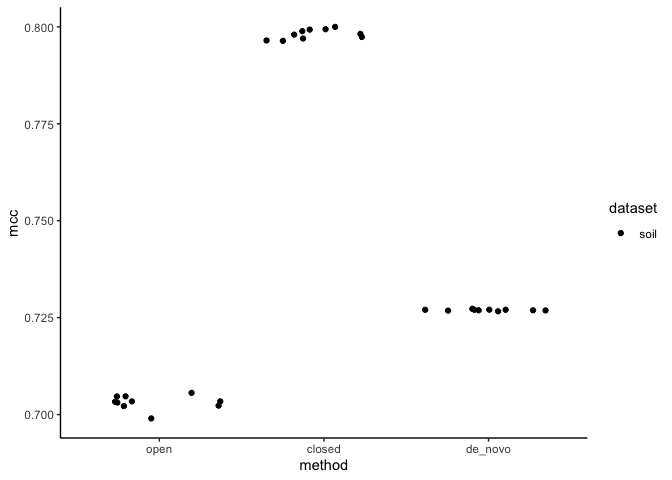
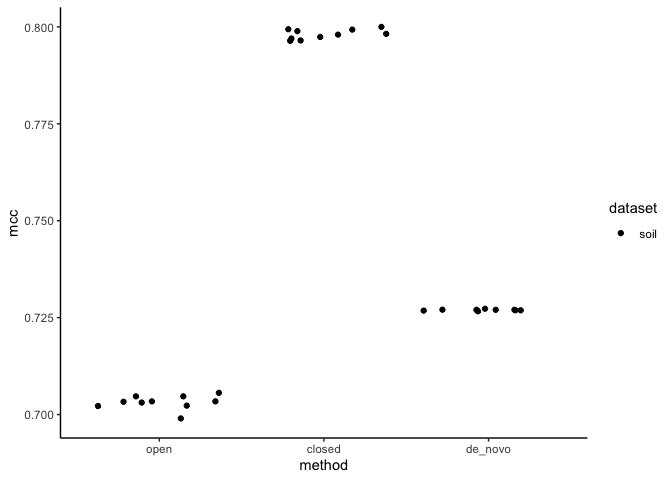
Use functions

Changed region(s): [[0.375, 0.0312, 0.5938, 0.0938], [0.1562, 0.8125, 0.3438, 0.875], [0.625, 0.625, 0.8125, 0.6562]]

diff --git a/exploratory/2020/README.md b/exploratory/2020/README.md
@@ -1,6 +1,5 @@
-plots.Rmd
+Exploratory Plots
 ================
-Kelly Sovacool
 5/27/2020
 
 ``` r
@@ -12,21 +11,31 @@ theme_set(theme_classic())
 # Fitting datasets to a reference database vs *de novo* clustering
 
 ``` r
-sensspec <- read_tsv(here('subworkflows/2_fit_reference_db/results/merged.sensspec')) %>% 
-  mutate(method=fct_relevel(method, c("open", "closed", "de_novo")))
-sensspec %>% group_by(dataset, method) %>% 
-  ggplot(aes(x=method, y=mcc, fill=dataset)) +
+relevel_method <- function(df) {
+  df %>%
+    mutate(method = fct_relevel(method, c("open", "closed", "de_novo")))
+}
+plot_jitter <- function(df, y) {
+  df %>% group_by(dataset, method) %>% 
+      ggplot(aes(x=method, y={{ y }}, fill=dataset)) +
   geom_jitter()
+}
+```
+
+``` r
+sensspec <- read_tsv(here('subworkflows/2_fit_reference_db/results/merged.sensspec')) %>% 
+  relevel_method()
+sensspec %>% 
+  plot_jitter(mcc)
 ```
 
 ![](figures/fit_db_sensspec-1.png)<!-- -->
 
 ``` r
 benchmarks <- read_tsv(here('subworkflows/2_fit_reference_db/results/benchmarks.txt')) %>% 
-  mutate(method=fct_relevel(method, c("open", "closed", "de_novo")))
-benchmarks %>% group_by(dataset, method) %>% 
-  ggplot(aes(x=method, y=s, fill=dataset)) +
-  geom_jitter() +
+  relevel_method
+benchmarks %>% 
+  plot_jitter(s) +
   labs(y='seconds')
 ```
 
